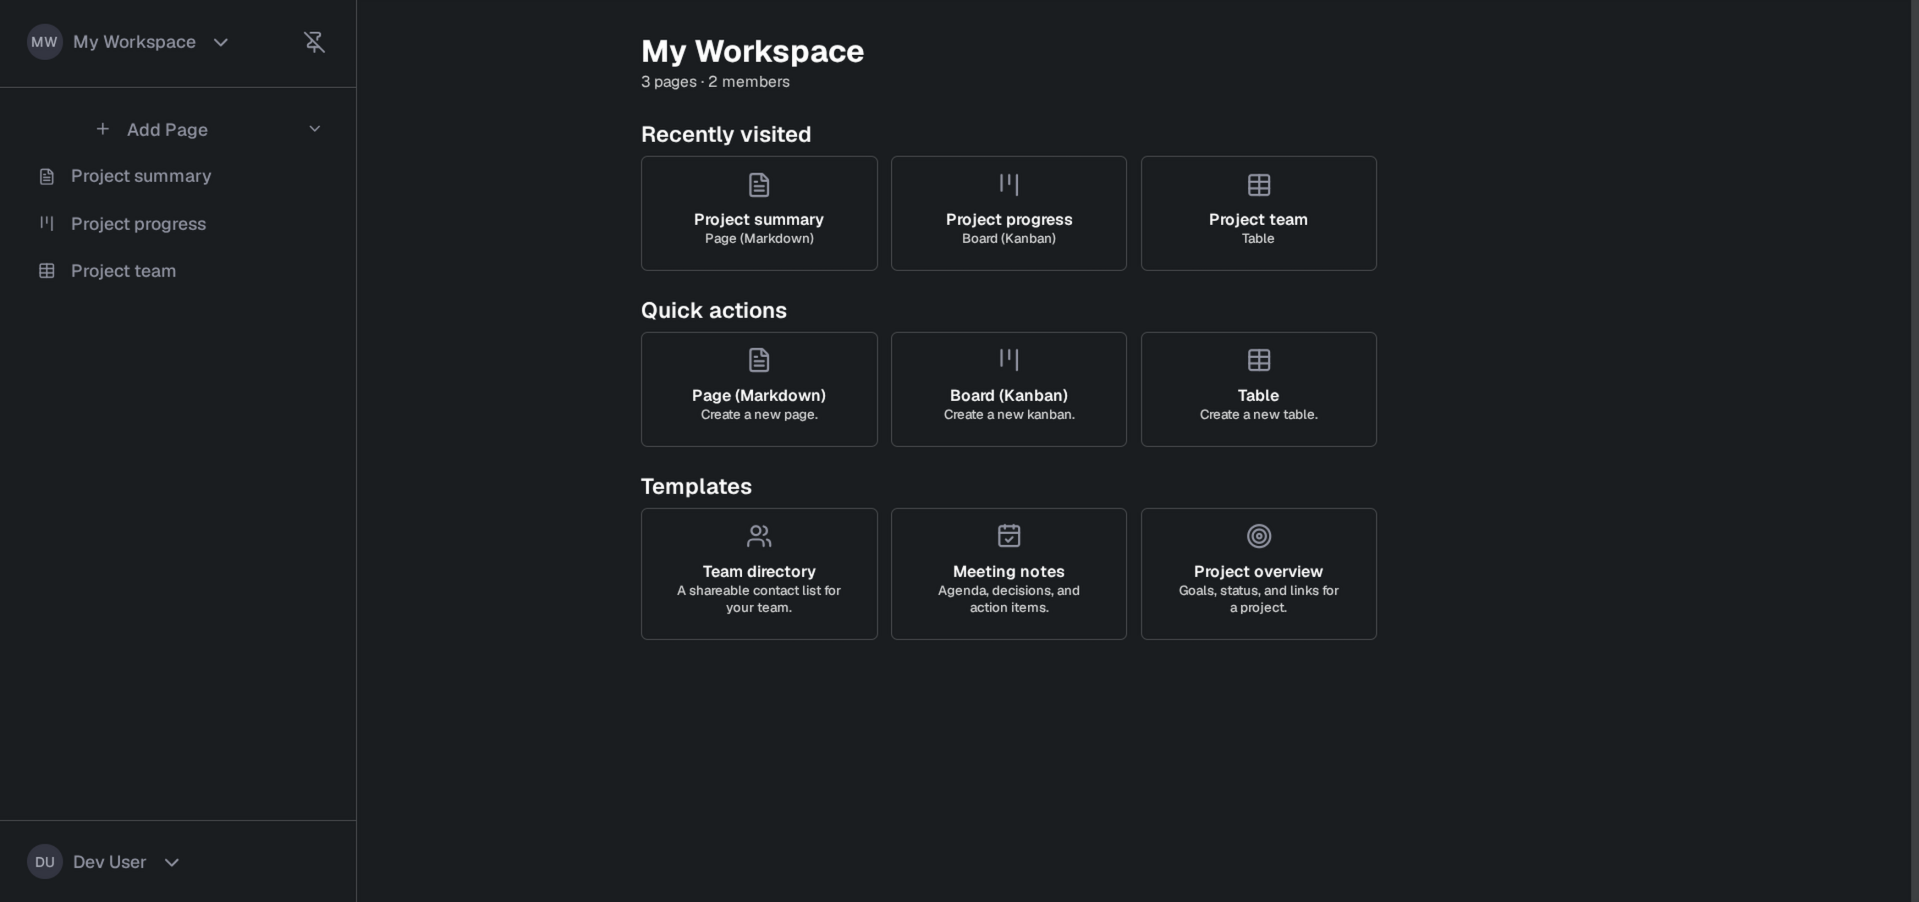
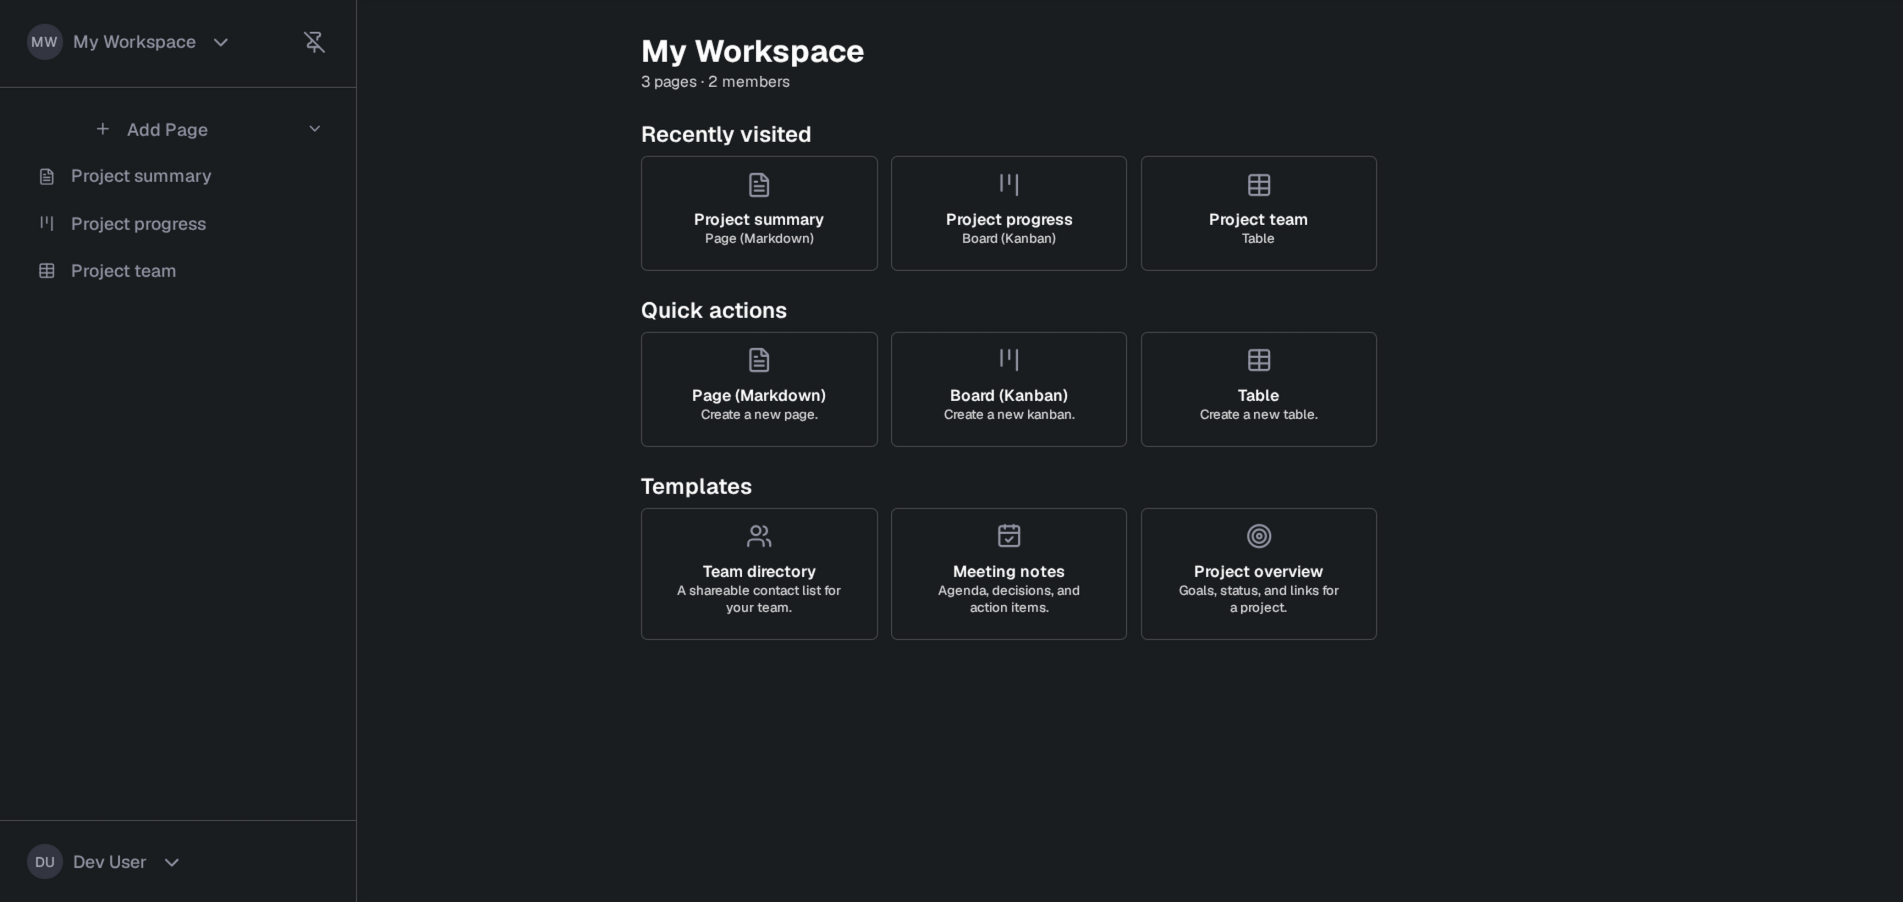
feat: improve homepage

diff --git a/src/features/home/components/Features.tsx b/src/features/home/components/Features.tsx
@@ -1,11 +1,5 @@
 import { For } from "solid-js";
 import { Motion } from "solid-motionone";
-import feature1 from "#assets/img/home/feature-1.png";
-import feature2 from "#assets/img/home/feature-2.png";
-import feature3 from "#assets/img/home/feature-3.png";
-import feature4 from "#assets/img/home/feature-4.png";
-import feature5 from "#assets/img/home/feature-5.png";
-import feature6 from "#assets/img/home/feature-6.png";
 import {
 	card,
 	cardContent,
@@ -27,42 +21,36 @@ const featureCards = [
 		title: "Real-time collaboration",
 		description:
 			"Every change is instantly visible to your whole team. No refreshing, no conflicts, no out-of-sync boards.",
-		image: feature1,
 	},
 	{
 		icon: "sparkles",
 		title: "AI assistance",
 		description:
 			"Write descriptions, edit content, create cards and generate subtasks. AI is built into the workflow, not bolted on.",
-		image: feature2,
 	},
 	{
 		icon: "layout-template",
 		title: "Templates",
 		description:
 			"Start faster with pre-built board templates. Duplicate and customize them for any project type.",
-		image: feature3,
 	},
 	{
 		icon: "message-circle-more",
 		title: "Comments",
 		description:
 			"Discuss tasks directly on the card. Keep context where the work is, not scattered across messages.",
-		image: feature4,
 	},
 	{
 		icon: "square-slash",
 		title: "Keyboard shortcuts",
 		description:
 			"Navigate, create and act without leaving the keyboard. Built for people who prefer to stay in flow.",
-		image: feature5,
 	},
 	{
 		icon: "bell",
 		title: "Notifications",
 		description:
 			"Stay in the loop on what matters. Get notified when cards are updated, assigned or commented on.",
-		image: feature6,
 	},
 ];
 
@@ -107,21 +95,11 @@ const Features = () => {
 					{(feature) => (
 						<article class={card}>
 							<div class={cardInner}>
-								<img
+								<wa-icon
 									class={cardImage}
-									src={feature.image}
-									alt={feature.title}
-									height="500px"
-									width="400px"
-									style={{
-										filter: feature.title.includes("shortcuts")
-											? "invert(1)"
-											: "",
-										"object-fit": feature.title.includes("shortcuts")
-											? "scale-down"
-											: "contain",
-									}}
-								/>
+									name={feature.icon}
+									style={{ "font-size": "5rem" }}
+								></wa-icon>
 								<div class={cardContent}>
 									<span class={cardIcon}>
 										<wa-icon name={feature.icon}></wa-icon>

diff --git a/src/features/home/components/hero.css.ts b/src/features/home/components/hero.css.ts
@@ -29,6 +29,7 @@ export const screenshotImage = style({
 	width: "100%",
 	height: "auto",
 	borderRadius: "var(--wa-border-radius-l)",
-	boxShadow: "0 0 5.5px rgba(0, 0, 0, 0.25)",
+	boxShadow:
+		"0 0 10px 0 color-mix(in srgb, var(--wa-color-text-normal) 20%, transparent)",
 	aspectRatio: "3014 / 1644",
 });

diff --git a/src/features/home/components/features.css.ts b/src/features/home/components/features.css.ts
@@ -116,6 +116,7 @@ export const cardImage = style({
 	height: "180px",
 	objectFit: "contain",
 	objectPosition: "center",
+	color: "var(--wa-color-on-quiet)",
 });
 
 export const cardContent = style({
